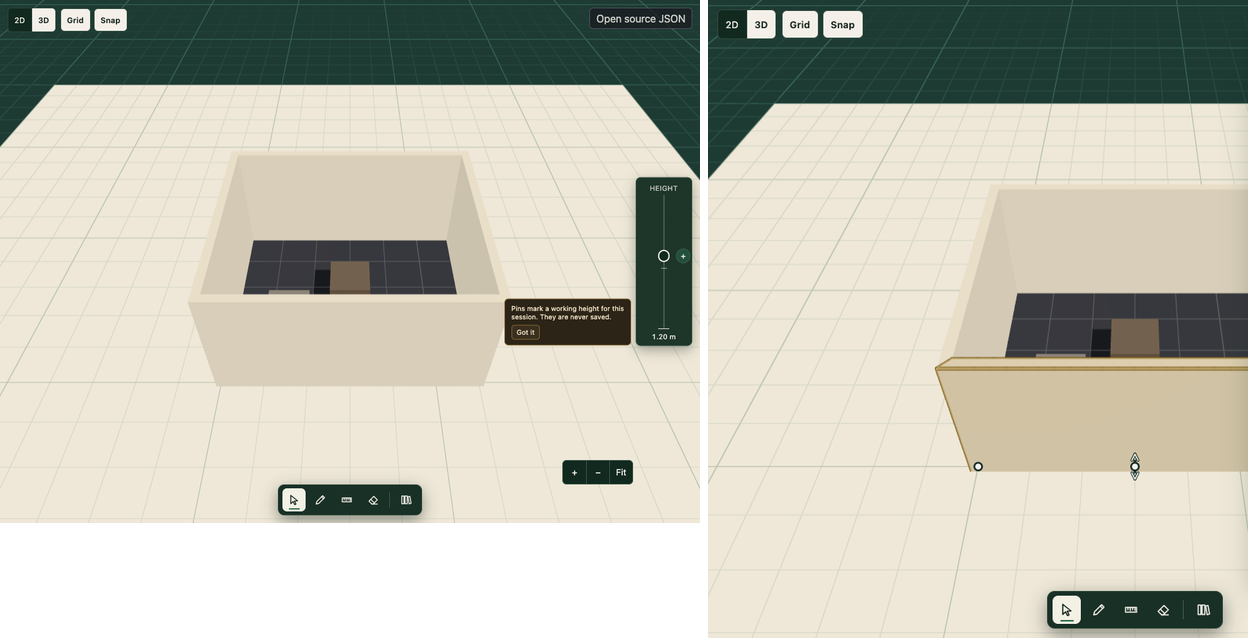
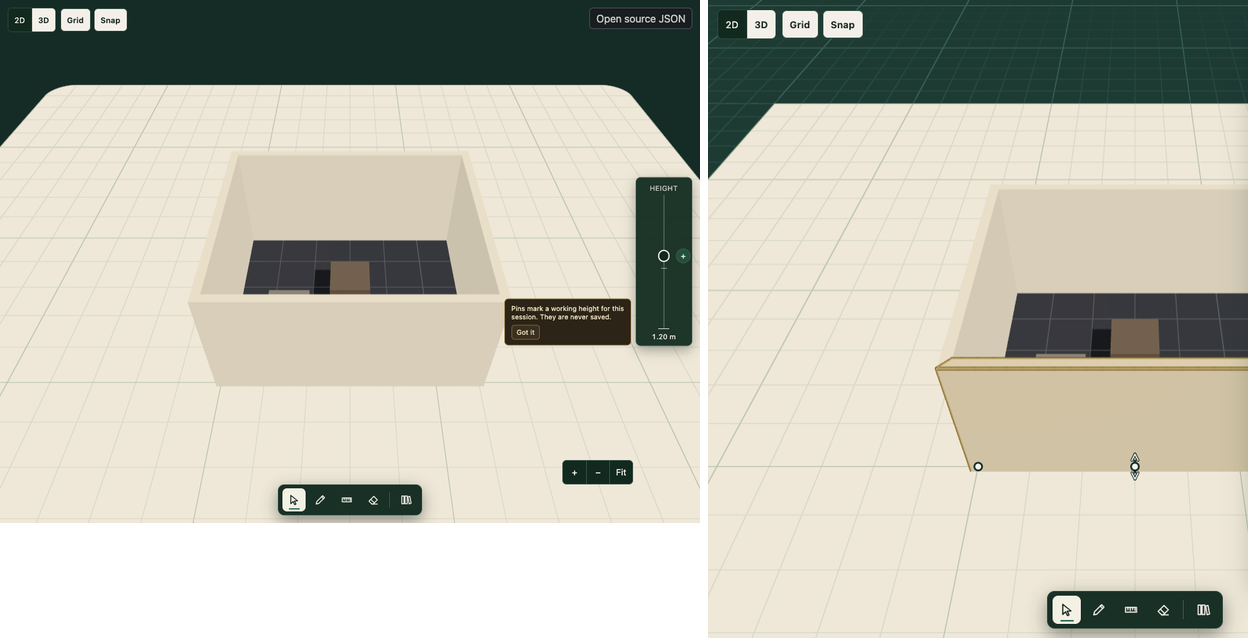
docs(r217): record the finite cream workspace requirement

diff --git a/docs/roadmap/r217-core-editor-stability/r217.s11-integrated-final-gate/implementation-plan.md b/docs/roadmap/r217-core-editor-stability/r217.s11-integrated-final-gate/implementation-plan.md
@@ -96,11 +96,11 @@ The coarse cells emulate touch and don't replace the native-touch cell: S12–S1
 | J10 | **Interrupted gestures.** During a Wall drag, an object drag and a pan, trigger each in turn: pointer cancel, lost capture, window blur, hidden tab, Esc, reading flip, lens switch. Then start an Ink chain, blur and return. Click Save during a live drag | Each drag ends with no F4 entry and no dirty change. Selection is kept. Undo becomes available with no stale reason. An immediate new press works. The Ink chain survives blur and return. Save during the drag saves only the last accepted source (byte comparison) |
 | J11 | **Source versus history and state.** After J3–J8 on *mixed*: Save; Undo once, then Redo; reload; reopen from the project list in a new session | The source after reload is byte-identical to the saved bytes. After reload and after reopen, Undo and Redo are unavailable, with their reason. Selection, hover, armed tool, reading, grid and snap, Sheet height and pins are at defaults. The app preferences (Paper or Shaded, Reduce motion) are kept. The Save payload contains no session or view state (key scan) |
 | J12 | **Plan flip.** On *mixed*: flip between 3D and 2D at four azimuths, including during a transition, then repeat quickly | No frame reverses the screen axes, and a Wall on screen-left stays there. Target and scale do not drift. Selection, tool and source are unchanged |
-| J13 | **3D ground.** On *mixed*, *empty* and *large*: orbit from overhead to shallow with the horizon in frame, and zoom to both extremes | Grid and ground run to the visible edges with no straight cut, moiré band or close-up fighting. In orbit and zoom motion, ground, grid and floors hold steady with the eye inside the project's bounds, and a Wall right beside the eye is not clipped. Both directions of a grid level leave together, and at the far extreme the ground ends as plain mat, never one direction of lines or strips. Line count stays within the budget |
+| J13 | **3D ground.** On *mixed*, *empty* and *large*: orbit from overhead to shallow with the horizon in frame, and zoom to both extremes | Grid and ground run to the visible edges with no straight cut, moiré band or close-up fighting. In orbit and zoom motion, ground, grid and floors hold steady with the eye inside the project's bounds, and a Wall right beside the eye is not clipped. Both directions of a grid level leave together, and at the far extreme the ground ends as plain cream, never one direction of lines or strips. Line count stays within the budget |
 | J14 | **Direct Plan editing.** On *starter*, using the Stage only: drag a selected Wall's body; drag an end point at a shared Junction; with a fine pointer only, hover and drag a corner with nothing selected; click an Opening, then slide and resize it; drag a Junction onto another Junction; pan from an unselected Wall | Neighbours stretch and stay connected, and each valid release is one Undo step. Clicking an Opening selects it. The refused drop writes nothing and gives a readable reason near the pointer, once, which stays after release. A raw id or code fails this row. Panning edits nothing. The Index is never needed |
 | J15 | **Every subject.** Native forms are created through Objects, including one in an empty project, and Free's Finish is exercised on a coarse pointer. For a primitive, a catalogue object, an approved model and a native form, in Plan and in 3D: place it; drag it by its body; turn it; size it; duplicate it; drag it off a floor; undo each step | The ghost follows the pointer and matches the accepted result, and an off-floor release writes nothing. The Card never covers the subject during a gesture |
 | J16 | **Solid Walls.** On a single Wall, an L with different heights, a T, a door at a free end and a Shape: orbit to both ends and both long sides, unselected and selected, in the Stage. Then choose Experience, Create Experience and Enter Preview, which needs no Guide and opens with free orbit, and repeat for the Walls | Each Wall reads as a closed solid from every side, with no back face or visible hole. A T's branch may abut the through Wall's face: nothing shows there, but it isn't a closed solid alone. Corners sharper than 45° and an arched door at a free end are the report's pre-existing limits, not failures of this row. Gold on a selected Wall frames a solid. The corner above the lower Wall is closed. A door frame stays inside its Opening on 0.1 m and 0.2 m Walls. A Shape isn't cut with the eye outside it; with the eye inside it, seeing through is expected. No `DoubleSide` is involved |
-| J17 | **Cream ground and Walls.** On *empty*, *mixed* and *large*: orbit and zoom to both extremes; pan away from the work; draw a Wall out past the plate. Select a Wall and an object. Open Preview | Inside the bounds the ground is cream with faint green lines, and outside it is forest, with a crisp edge that stays fixed in the world through every pan and zoom. The plate grows under the candidate and the Camera doesn't move. Default Walls are warm cream in the Stage and Preview; authored materials are unchanged. Gold reads on cream and on forest. Zoom has no new limit |
+| J17 | **Cream ground and Walls.** On *empty*, *mixed* and *large*: orbit and zoom to both extremes; pan away from the work; draw a Wall out past the plate. Select a Wall and an object. Open Preview | Zooming out shows a finite cream surface with faint green lines, surrounded by plain forest with no line or horizon. Its edge stays fixed in the world through every pan and zoom. It grows under a candidate and after a move or resize past it, the Camera doesn't move and existing lines don't shift. An empty project gets a small default surface. Default Walls are warm cream in the Stage and Preview; authored materials are unchanged. Gold reads on cream and on forest. Zoom has no new limit |
 
 ## 6. Acceptance criteria, reviews and stop conditions
 

diff --git a/docs/roadmap/r217-core-editor-stability/post-s19-owner-manual-review/report.md b/docs/roadmap/r217-core-editor-stability/post-s19-owner-manual-review/report.md
@@ -92,12 +92,12 @@ the through Wall has no surface there to weld to, so edge incidence still report
 
 ### Visual direction
 
-**Landed after browser prototypes:** a cream ground (`#efe8d8`) inside Paper's sheet around Layout ∪ Scene, forest outside, Paper's two green inks on it, and warm cream default Walls (`#f1e6cf`).
+**Landed after browser prototypes and the owner's explicit workspace requirement:** a finite cream drafting surface (`#efe8d8`, 1 m rounded corners) inside Paper's sheet around Layout ∪ Scene, with Paper's two green inks on it and none beyond it. Outside is plain forest, exactly the Stage background (`#152c26`, sampled), so no horizon shows. Default Walls are warm cream (`#f1e6cf`).
 
 | Requirement | How | Evidence |
 | --- | --- | --- |
-| Follows the work and grows | `groundPlateRectFor`: 5 m margin, rounded out to 5 m, plus the live candidate | [growth, right](./evidence/ground-plate-zoom-growth.png) |
-| World anchoring | The same lattice either side of the edge. An empty project's plate is 20 × 20 m around world zero, not the target as on Paper, so pans don't move it | Unit tests |
+| Follows the work, never the Camera | `groundPlateRectFor` reads only the work: 5 m margin, rounded out to 5 m, plus the live candidate. A Shape moved to X 30 gave plate X 20–40; sized to 40 m deep, Z −25–25; each Undo restored it. It also contracts when the work leaves, so it always fits the work | [far zoom and growth](./evidence/ground-plate-zoom-growth.png) |
+| World anchoring | The plate only clips the lattice, and its origin stayed at 0,0 through every step above. An empty project's plate is 20 × 20 m around world zero, not the target as on Paper, so pans don't move it | Unit tests |
 | Depth stability | One opaque draw changes colour at the edge, so plate and mat can't fight | 28 poses on the large room: 0 floor and 0 grid pixels lost. Ground and floor blink under 0.3‰ |
 | Unrestricted zoom | No Camera limit. The plate shrinks into the forest and the fade is unchanged | [far zoom](./evidence/ground-plate-zoom-growth.png) |
 | Authored materials | Only physical Walls change, and they carry no authored material yet. Shapes, floors and catalogue objects keep theirs | Unit test |
@@ -110,9 +110,13 @@ the through Wall has no surface there to weld to, so edge incidence still report
 - **The ground is unlit now.** A lit cream drifts with the view. This also removes the lighter mat near the horizon.
 - **Gold needed Paper's contour.** Over cream the forest halo swallowed the gold, so 3D selection now uses the same `#74560c` under `#d4ad45`. Hover and erase keep their halo.
 - **Paper's inks are recalibrated, not replaced.** Same hues, at 0.34 and 0.55 instead of 0.28 and 0.45, to read on warmer cream. Higher values looked stronger but blinked more: 39–70‰ at 0.55 and 0.8. Paper's own values are unchanged.
-- **The forest lines stay outside the plate,** so a far pan keeps a world reference.
+- **My first version kept forest lines outside the plate and a separate mat tone. The owner ruled both out,** so a pan far from the work now has no ground reference outside the plate until the plate is back in view.
 
-**Owner's call, pushed back but not changed:** the room floor stays dark slate. It is now the heaviest thing in the frame, and it is what makes the black shadow patch obvious. A paler default floor would likely suit this direction, but it was not in the brief, and it is one shared tint with the floor's walnut material.
+**Differences from the owner's reference image, not changed because they aren't in the written requirement:**
+
+- **Room floor.** The reference shows a Room on plain cream; here it stays dark slate, the heaviest thing in the frame, and that makes the black shadow patch obvious. It shares one tint with the floor's walnut material.
+- **Ground shadows.** The reference has soft Wall shadows on the ground. This ground is unlit and receives none. Adding them means a shadow-only pass plus fixing the ±5 m shadow box, which is itself a recorded residual.
+- **Corner ticks and Wall hue.** The reference has small corner marks and a pinker Wall. Neither is drawn, and the hue is one constant.
 
 ## Summary
 

diff --git a/docs/reference/design-system/editor-shell-and-visual-system.md b/docs/reference/design-system/editor-shell-and-visual-system.md
@@ -889,7 +889,7 @@ PLATE has exactly three material classes; a task name is not a new material clas
 | **Paper** | Spatial Stage, expressed as dark **cutting mat** for model/depth work or light **vellum** for measured drawing; top-down and flat readings render as paper or shaded by an application viewing preference |
 | **Instrument** | Controls acting on the work: the dark forest **dock and palettes** with an ivory armed key, the forest task surface of the Library, repair and Guide, neutral working items and restrained edges |
 
-The mat gives depth, artwork and geometry a dark ground, with a cream plate around the work. Vellum makes measured
+The mat gives depth, artwork and geometry a dark ground, with a cream surface around the work. Vellum makes measured
 architecture the drawing subject. Ink and ochre are mark/state roles, not additional
 materials. Section, Unroll or precision can use a measured vellum reading without
 creating another shell. A camera route on Plan uses the same Paper as World drafting;
@@ -911,7 +911,7 @@ below 8 px. On Paper a 25 m reference appears only while the 5 m level is suppre
 obeys the same rule. The 3D mat applies the same fade per pixel, from each pixel's own
 projected spacing, so near ground keeps 1 m, farther ground 5 m and the far ground 25 m.
 Both directions of a level share one weight from the denser direction, so they leave together
-and the farthest ground is plain mat, never one direction of lines. The 25 m level cross-fades in as the 5 m level fades out, so a zoom never passes
+and the farthest ground is plain, never one direction of lines. The 25 m level cross-fades in as the 5 m level fades out, so a zoom never passes
 through a band with no reference (R217.S19). The mat is subdivided and pushed back four depth
 steps, so a floor on the datum holds in motion with the near plane at its floor. Anchor to the
 world/floor datum with a stable origin across zoom changes.
@@ -921,9 +921,9 @@ around the target for an empty project. The sheet is intersected with the visibl
 coverage so a zoomed-in view cannot generate unbounded lines; it grows with the work and
 never moves the Camera. The mat's grid covers the finite mat, which the Camera's ground
 reach sizes; it has no line geometry and no line budget. Inside the same sheet around the work the
-3D ground is cream, with Paper's two inks at their plate calibration, and outside it stays the forest
-mat with the mat's lines. An empty project's plate is 20 × 20 m around world zero. It is one unlit draw, grows with
-a live candidate, and never enters bounds, Fit or the Camera.
+3D ground is a finite cream surface with rounded corners and Paper's two inks at their plate calibration. Outside it
+the Stage is plain forest with no lines and no horizon. An empty project's surface is 20 × 20 m around world zero. It is
+one unlit draw, follows Layout and Scene with a live candidate, keeps the lattice world-anchored, and never reads or moves the Camera.
 It is drawing state, never a Camera mode or a reason to delay navigation.
 
 The **paper rule** is fixed: a Wall wears the drafting sheet when it is the settled
@@ -945,7 +945,7 @@ display-only. Paper and selection compose; selection does not replace the sheet.
 | Primary technical / reference dimension ink on light surfaces | Dark neutral ink, contrast-calibrated (`#1b201c` reference) |
 | Light overlay ink/halo | `#F3F4EE` |
 | Paper grid minor / major | `#9FB2A2` at 0.28 / `#809984` at 0.45 |
-| Mat / background / minor and major grid | `#1D3A33` / `#152C26` / `#2B5147` and `#3C6A5C` |
+| 3D background, inside and outside the drawn ground | `#152C26` |
 | 3D ground plate / its minor and major grid | `#EFE8D8` / `#9FB2A2` at 34% and `#809984` at 55% |
 | Default physical Wall | `#F1E6CF`, half unlit and untoned so it reads the same in the Stage and Preview; never over an authored material |
 | Camera infrastructure / active context | Restrained leaf green (`#4f8f6c` reference), reinforced by shape/line; no mandatory competing blue/teal shell hue |

diff --git a/docs/roadmap/r217-core-editor-stability/README.md b/docs/roadmap/r217-core-editor-stability/README.md
@@ -246,7 +246,7 @@ S11 runs every journey in two browsers, with fine and coarse pointers. The crite
 | J14 | Direct Wall, Junction and Opening editing from Plan alone |
 | J15 | Direct manipulation of every subject type, in both readings |
 | J16 | Walls read as closed solids from every side, selected and unselected, in Stage and Preview |
-| J17 | A cream ground around the work inside a forest Stage, and warm cream default Walls |
+| J17 | A finite cream ground around the work, on plain forest, and warm cream default Walls |
 
 ## Non-goals
 
